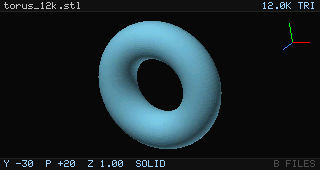
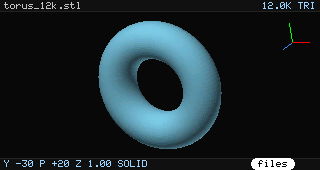
Add a files pill aligned with the 8 key
- rounded white capsule with black 'files' text in the bottom bar
- centered at x=273, matching the physical 8 key position
- 8 now opens the file browser in addition to B
- compact the camera status text to leave room for the pill
- refresh documentation screenshots

Changed region(s): [[0.125, 0.9412, 0.5312, 1.0], [0.7812, 0.9118, 1.0, 1.0]]

diff --git a/src/ui.cpp b/src/ui.cpp
@@ -37,6 +37,21 @@ void drawTextRight(Canvas& canvas, int right_x, int y, const std::string& text,
     canvas.text(right_x - canvas.textWidth(text), y, text, color);
 }
 
+void fillPill(Canvas& canvas, int x, int y, int w, int h, uint16_t color) {
+    if (w <= 0 || h <= 0) return;
+    const float half = h * 0.5f;
+    for (int row = 0; row < h; ++row) {
+        const float dy = row + 0.5f - half;
+        const float span = std::sqrt(std::max(0.0f, half * half - dy * dy));
+        const int inset =
+            static_cast<int>(std::lround(half - span));
+        const int row_width = w - 2 * inset;
+        if (row_width > 0) {
+            canvas.fillRect(x + inset, y + row, row_width, 1, color);
+        }
+    }
+}
+
 std::string humanSize(uint64_t bytes) {
     char buf[24];
     if (bytes >= 1024ULL * 1024ULL) {
@@ -115,15 +130,23 @@ void drawUi(Canvas& canvas, const UiState& state) {
         std::fabs(state.camera.pivot_z) > 1e-4f;
 
     char view[80];
-    std::snprintf(view, sizeof(view), "Y %+d  P %+d  Z %.2f  %s%s%s",
+    std::snprintf(view, sizeof(view), "Y %+d P %+d Z %.2f %s%s%s",
                   static_cast<int>(state.camera.yaw_deg),
                   static_cast<int>(state.camera.pitch_deg),
                   state.camera.zoom, state.wireframe ? "WIRE" : "SOLID",
-                  state.auto_rotate ? "  AUTO" : "",
-                  custom_pivot ? "  CENTER" : "");
+                  state.auto_rotate ? " AUTO" : "",
+                  custom_pivot ? " CENTER" : "");
     canvas.text(kTextLeft, hint_y + kTextTop, view, Theme::kText);
 
-    drawTextRight(canvas, w - 4, hint_y + kTextTop, "B FILES", Theme::kTextDim);
+    // Pill button aligned with the "8" key (official x=273 on this panel).
+    const std::string files_label = "files";
+    const int pill_w = 44;
+    const int pill_h = kHintHeight;
+    const int pill_x = 273 - pill_w / 2;
+    fillPill(canvas, pill_x, hint_y, pill_w, pill_h,
+             Theme::kPillBackground);
+    canvas.text(pill_x + (pill_w - canvas.textWidth(files_label)) / 2,
+                hint_y + kTextTop, files_label, Theme::kPillText);
 
     // Transient toast (screenshot saved, etc.).
     if (!state.toast.empty()) {
@@ -156,7 +179,7 @@ void drawUi(Canvas& canvas, const UiState& state) {
         "0         FIT TO SCREEN",
         "W         WIRE / SOLID",
         "A         AUTO ROTATE",
-        "B         OPEN FILE LIST",
+        "B / 8     OPEN FILE LIST",
         "S         SCREENSHOT",
         "H         CLOSE HELP",
         "HOLD ESC  3S TO EXIT",

diff --git a/include/canvas.h b/include/canvas.h
@@ -56,6 +56,8 @@ constexpr uint16_t kOverlayBackground = 0x0841;
 constexpr uint16_t kOverlayBorder = 0x4FDF;
 constexpr uint16_t kWireNear = 0x4FDF;    // bright cyan
 constexpr uint16_t kWireFar = 0x1A69;     // dark teal
+constexpr uint16_t kPillBackground = 0xFFFF;  // white
+constexpr uint16_t kPillText = 0x0000;        // black
 }  // namespace Theme
 
 #endif  // STLVIEWER_CANVAS_H

diff --git a/src/keyboard.cpp b/src/keyboard.cpp
@@ -89,6 +89,8 @@ Key translate(int code) {
             return Key::Space;
         case KEY_0:
             return Key::Fit;
+        case KEY_8:
+            return Key::Files;
         case KEY_W:
             return Key::Wire;
         case KEY_H:

diff --git a/README.md b/README.md
@@ -24,8 +24,9 @@ wireframe toggle, rotate/zoom, and an in-app file browser.
 - `Enter` / `Space` zoom, `R` / `0` reset the view and center
 - Red/green/blue XYZ orientation gizmo in the top-right corner, drawn above
   the model and overlays
-- `B` opens the file list; `Esc` is exit-only (hold 3 seconds)
+- `B` / `8` opens the file list; `Esc` is exit-only (hold 3 seconds)
 - Pixel-art UI using a 6x8 bitmap font, no LVGL dependency
+- White "files" pill in the bottom bar, aligned with the physical 8 key
 - Offscreen PNG rendering for development without a device
 - Built-in benchmark mode
 - Runs as the normal `pi` user under APPLaunch
@@ -133,7 +134,7 @@ are remembered in `~/.config/stlviewer/last_dir`.
 | `0` | Fit to screen and recenter |
 | `W` | Toggle solid / wireframe |
 | `A` | Toggle auto-rotate |
-| `B` | Open the file list |
+| `B` / `8` | Open the file list |
 | `S` | Save `/tmp/stlviewer_shot.png` |
 | `H` | Help overlay |
 | `Esc` | Close help; hold 3s to exit |

diff --git a/docs/DESIGN.md b/docs/DESIGN.md
@@ -135,13 +135,17 @@ R            reset view and center
 0            fit to screen and recenter
 W            wireframe / solid
 A            auto-rotate
-B            open the file list
+B / 8        open the file list (8 is under the on-screen pill)
 Esc (3s)     hold to exit; an on-screen progress prompt is shown
 ```
 
 The viewer shows a red/green/blue XYZ orientation gizmo in the top-right
 corner of the 3D viewport, with no frame or arrowheads, drawn above the model
 and over the UI overlays.
+
+The bottom bar has a small white pill button labeled `files`, centered at
+x=273 so it lines up with the physical `8` key. Both `8` and `B` open the file
+browser.
 
 Status bar: file name, triangle count, fps, quality mode.
 
